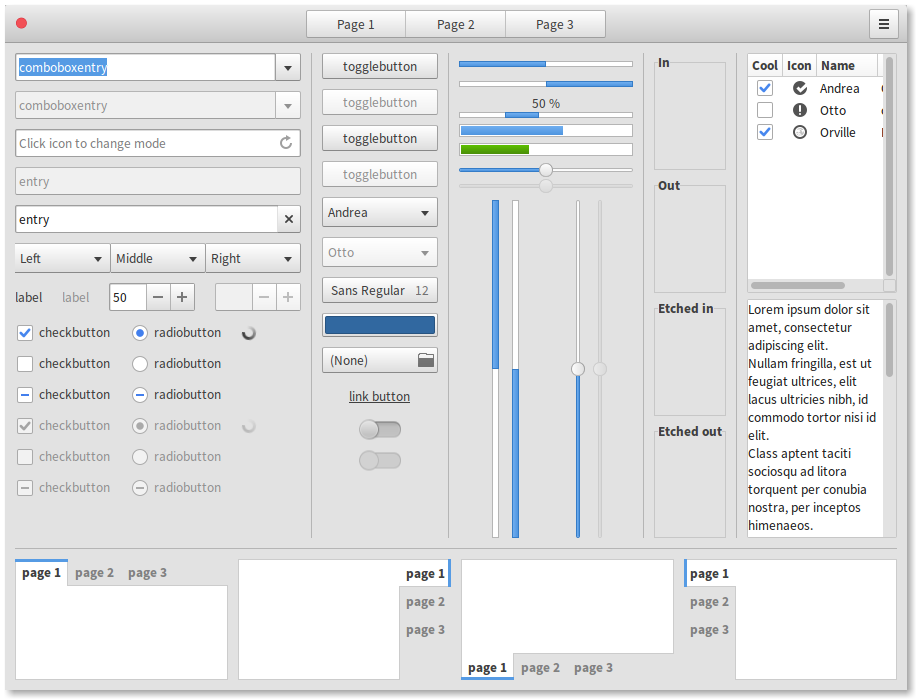
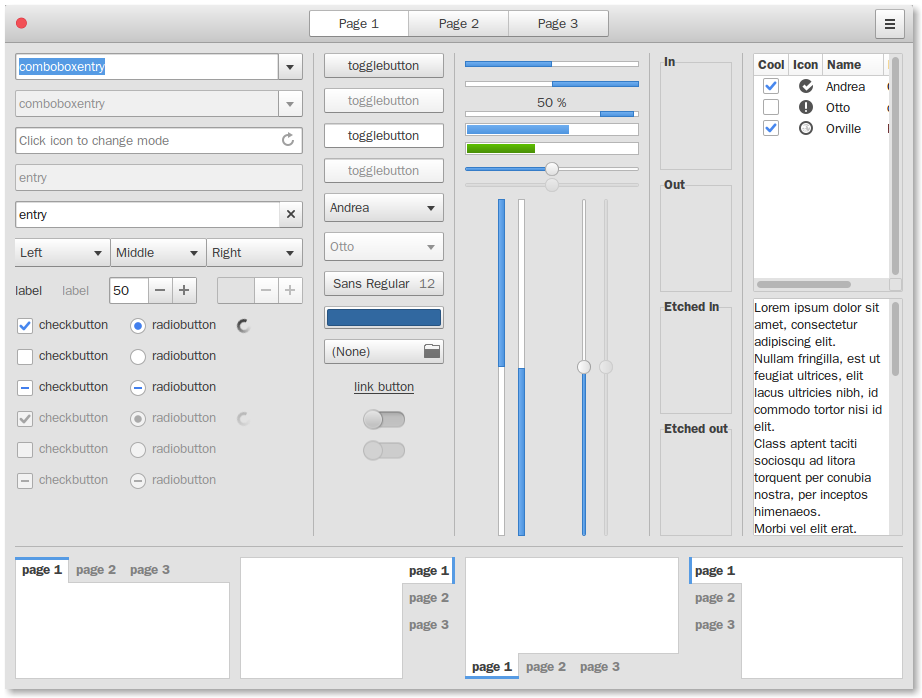
Mosemite GTk3: minor changes

diff --git a/Mosemite/gtk-3.0/gtk-widgets.css b/Mosemite/gtk-3.0/gtk-widgets.css
@@ -681,7 +681,7 @@ GtkScrolledWindow.frame {
 	border-style: solid;
 	border-color: @borders;
 	border-width: 1px;
-	border-radius: 2px;
+	border-radius: 0;
 	padding: 0;
 }
 
@@ -2094,7 +2094,9 @@ GtkCalendar.header .path-bar .button.titlebutton GtkImage {
     padding: 3px;
     border-width: 0 0 1px 0;
     border-style: solid;
-    border-color: shade(@toolbar_bg_color, 0.7);
+    border-right-color: shade(@toolbar_bg_color, 0.8);
+    border-left-color: shade(@toolbar_bg_color, 0.8);
+    border-bottom-color: shade(@toolbar_bg_color, 0.7);
     background-color: @toolbar_bg_color;
     background-image: linear-gradient(to bottom,
                                       shade(@toolbar_bg_color, 1.00),
@@ -2387,7 +2389,6 @@ GtkCalendar.header .path-bar .button.titlebutton GtkImage {
 }
 
 /* middle button */
-.linked .entry,
 .linked .button,
 .linked .button:active,
 .linked .button:active:hover,
@@ -2405,7 +2406,6 @@ GtkCalendar.header .path-bar .button.titlebutton GtkImage {
 }
 
 /*leftmost button */
-.linked .entry:first-child,
 .linked .button:first-child,
 .linked .button:active:first-child,
 .linked .button:active:hover:first-child,
@@ -2424,7 +2424,6 @@ GtkCalendar.header .path-bar .button.titlebutton GtkImage {
 }
 
 /* rightmost button */
-.linked .entry:last-child,
 .linked .button:last-child,
 .linked .button:active:last-child,
 .linked .button:active:hover:last-child,
@@ -2443,7 +2442,6 @@ GtkCalendar.header .path-bar .button.titlebutton GtkImage {
 }
 
 /* linked single button */
-.linked .entry:only-child,
 .linked .button:only-child,
 .linked .button:active:only-child,
 .linked .button:active:hover:only-child,
@@ -2456,6 +2454,15 @@ GtkCalendar.header .path-bar .button.titlebutton GtkImage {
 .inline-toolbar.toolbar GtkToolButton:only-child .button:insensitive {
     border-width: 1px;
     border-radius: 2px;
+}
+
+
+/* linked entries only */
+.linked .entry,
+.linked .entry:first-child,
+.linked .entry:last-child,
+.linked .entry:only-child {
+	border-width: 1px;
 }
 
 /* linked button shadows (vertical) */
